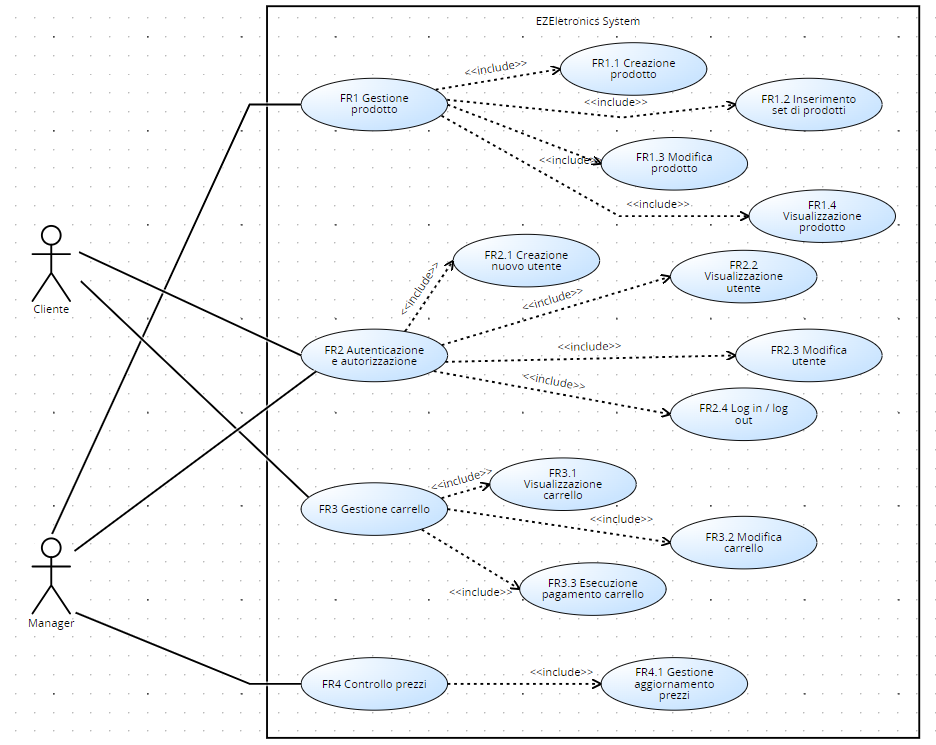
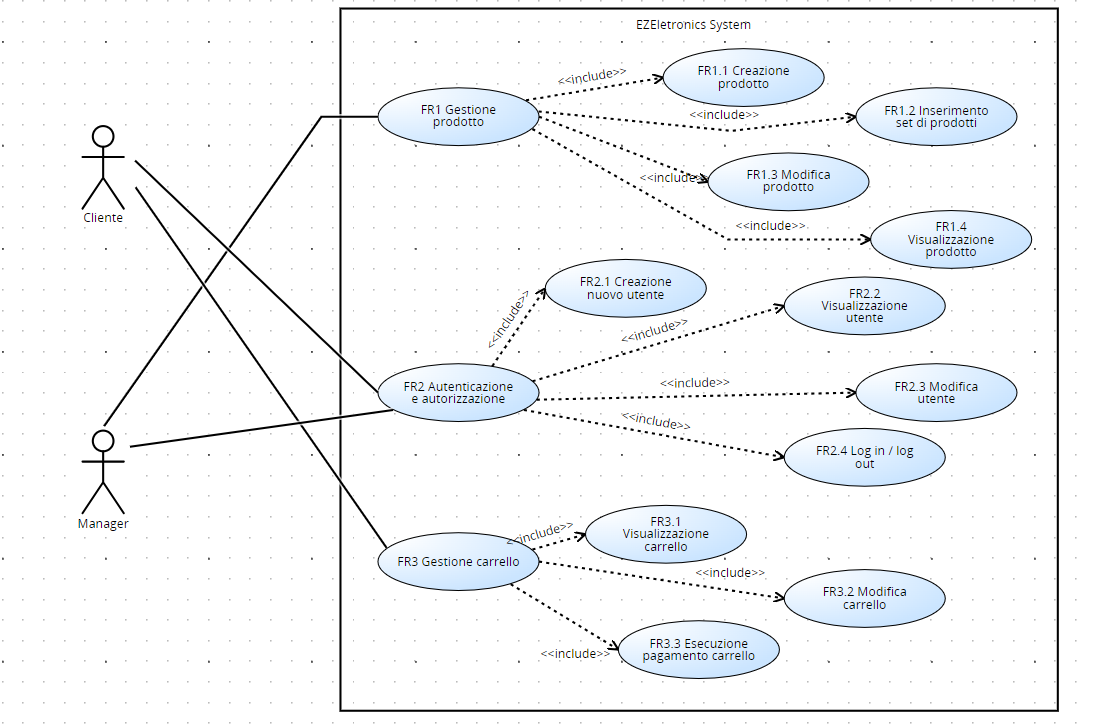
v1 completed

diff --git a/RequirementsDocumentV1.md b/RequirementsDocumentV1.md
@@ -127,8 +127,6 @@ EZElectronics (read EaSy Electronics) is a software application designed to help
 | FR3.1 | Visualizzazione carrello (carrello attuale del cliente, fornire la cronologia dei carrelli pagati) |
 | FR3.2 | Modifica carrello (aggiunta di un prodotto, rimozione di un prodotto, cancellazione del carrello, cancellazione di tutti i carrelli) |
 | FR3.3 | Esecuzione del pagamento del carrello |
-|  **FR4**  | **Controllo prezzi** |
-| FR4.1 | Gestione aggiornamento prezzi |
 
 ## Non Functional Requirements
 
@@ -136,10 +134,10 @@ EZElectronics (read EaSy Electronics) is a software application designed to help
 | :-----: | :--------------------------------: | :---------: | :-------: |
 |  NFR1   | Usabilità | Gli utenti non devono avere bisogno di training per l'utilizzo del sito web | FR2, FR3|
 |  NFR2   | Usabilità | Il sito deve essere facilmente accessibile e comprensibile | FR1, FR2, FR3|
-|  NFR3   | Efficienza | Tutte le funzionalità del sito web devono completarsi in un tempo < 0.1 sec (escludendo la rete) | FR1, FR2, FR3, FR4|
+|  NFR3   | Efficienza | Tutte le funzionalità del sito web devono completarsi in un tempo < 0.1 sec (escludendo la rete) | FR1, FR2, FR3|
 |  NFR4   | Affidabilità | Ogni utente non deve segnalare più di un bug all’anno | FR2, FR3|
-|  NFR5   | Affidabilità | Backup regolare dei dati per evitare malfunzionamenti e perdita / dispersione di dati | FR3, FR4 |
-|  NFR6   | Portabilità | Disponibilità del website su: Google Chrome, Safari, Mozilla Firefox per Windows 10 e 11 e macOS 14 | FR1, FR2, FR3, FR4|
+|  NFR5   | Affidabilità | Backup regolare dei dati per evitare malfunzionamenti e perdita / dispersione di dati | FR3|
+|  NFR6   | Portabilità | Disponibilità del website su: Google Chrome, Safari, Mozilla Firefox per Windows 10 e 11 e macOS 14 | FR1, FR2, FR3|
 
 # Use case diagram and use cases
 
@@ -415,7 +413,7 @@ EZElectronics (read EaSy Electronics) is a software application designed to help
 
 |  Scenario 6.1  | Eliminazione di uno specifico utente a partire dal username  |
 | :------------: | :------------------------------------------------------------------------: |
-|  Precondition  | Utente gestisce gli account |
+|  Precondition  | Utente non loggato gestisce gli account |
 | Post condition |  Account richiesto eliminato |
 |     Step#      |               Descrizione    |
 |       1        |   Utente: richiede la cancellazione di un account fornendo lo username  |
@@ -425,7 +423,7 @@ EZElectronics (read EaSy Electronics) is a software application designed to help
 
 |  Scenario 6.2  |  Username non esiste  |
 | :------------: | :------------------------------------------------------------------------: |
-|  Precondition  |  Admin gestisce gli account |
+|  Precondition  |  Utente non loggato gestisce gli account |
 | Post condition |   Account richiesto non eliminato |
 |     Step#      |               Descrizione    |
 |       1        |   Admin: richiede la cancellazione di un account fornendo lo username  |
@@ -602,7 +600,7 @@ EZElectronics (read EaSy Electronics) is a software application designed to help
 ## Table
 
   1. **Utente**: un utente caratterizzato dal assegnazione di uno tra due ruoli:
-     - **Manager**(a): utente che gestisce i prodotti all'interno del magazzino (inserendo i nuovi prodotti arrivati, eliminando quelli non più disponibili, gestendo l'invio dei prodotti acquistati dai customer)
+     - **Manager**: utente che gestisce i prodotti all'interno del magazzino (inserendo i nuovi prodotti arrivati, eliminando quelli non più disponibili, gestendo l'invio dei prodotti acquistati dai customer)
      - **Cliente**: colui che effettua un qualunque acquisto sul sito, tramite diversi metodi di pagamento, inserendo i prodotti scelti nel carrello.
   1. **Prodotto**: prodotto disponibile attraverso il sito, che può essere acquistato nel caso in cui sia ancora presente in stock o non sia stato ancora acquistato da un'altro utente.
   1. **Carrello**: lista di prodotti scelti dal utente per essere acquistati. Un prodotto può essere inserito nel carrello e poi acquistato in due momenti diversi.

diff --git a/EstimationV1.md b/EstimationV1.md
@@ -1,5 +1,5 @@
 # Project Estimation - CURRENT
-Date:
+Date: 29/04/2024
 
 Version:
 
@@ -10,34 +10,30 @@ Consider the EZElectronics  project in CURRENT version (as given by the teachers
 ### 
 |             | Estimate                        |             
 | ----------- | ------------------------------- |  
-| NC =  Estimated number of classes to be developed   |                             |             
-|  A = Estimated average size per class, in LOC       |                            | 
-| S = Estimated size of project, in LOC (= NC * A) | |
-| E = Estimated effort, in person hours (here use productivity 10 LOC per person hour)  |                                      |   
-| C = Estimated cost, in euro (here use 1 person hour cost = 30 euro) | | 
-| Estimated calendar time, in calendar weeks (Assume team of 4 people, 8 hours per day, 5 days per week ) |                    |               
+| NC =  Estimated number of classes to be developed   |       12                      |             
+|  A = Estimated average size per class, in LOC       |        300                    | 
+| S = Estimated size of project, in LOC (= NC * A) | 3600 |
+| E = Estimated effort, in person hours (here use productivity 10 LOC per person hour)  |     360     |   
+| C = Estimated cost, in euro (here use 1 person hour cost = 30 euro) |10800 | 
+| Estimated calendar time, in calendar weeks (Assume team of 4 people, 8 hours per day, 5 days per week ) | 9      |               
 
 # Estimate by product decomposition
 ### 
 |         component name    | Estimated effort (person hours)   |             
 | ----------- | ------------------------------- | 
-|requirement document    | |
-| GUI prototype ||
-|design document ||
-|code ||
-| unit tests ||
-| api tests ||
-| management documents  ||
-
+|requirement document    |70 | 
+| GUI prototype |50|
+|design document |30|
+|code |80|
+| unit tests |50|
+| api tests |60|
+| management documents  |20|
 
 
 # Estimate by activity decomposition
 ### 
-|         Activity name    | Estimated effort (person hours)   |             
-| ----------- | ------------------------------- | 
-| | |
-###
-Insert here Gantt chart with above activities
+![image](diagramma-gantt.png "diagramma di gantt")
+
 
 # Summary
 

diff --git a/RequirementsDocumentV2.md b/RequirementsDocumentV2.md
@@ -44,6 +44,7 @@ EZElectronics (read EaSy Electronics) is a software application designed to help
 |        Cliente         | Cliente del sito web che visualizza i prodotti e può inserirli nel carrello           |
 |        Manager        | Figura che gestisce l'inserimento, la modifica e la rimozione dei prodotti sul sito            |
 |        Admin           | Sviluppatore che gestisce la creazione e accesso dell'utente           |
+|  Metodo di pagamento  | Servizio che permette il pagamento dell'ordine online attraverso una piattaforma esterna        |
 
 # Context Diagram and interfaces
 
@@ -58,6 +59,7 @@ EZElectronics (read EaSy Electronics) is a software application designed to help
 | Cliente | Smartphone / PC | GUI (tbd – mostrare i prodotti, riempire il carrello, visionare vecchi carrelli, modificare carrello, effettuare l’ordine, login / logout) |
 | Manager | Smartphone / PC | GUI (tbd – inserire prodotti, modificare prodotti, login / logout) |
 | Admin | PC | GUI (tbd – creazione / rimozione account) |
+| Metodo di pagamento | Internet | GUI (tbd – ) |
 
 # Stories and personas
 
